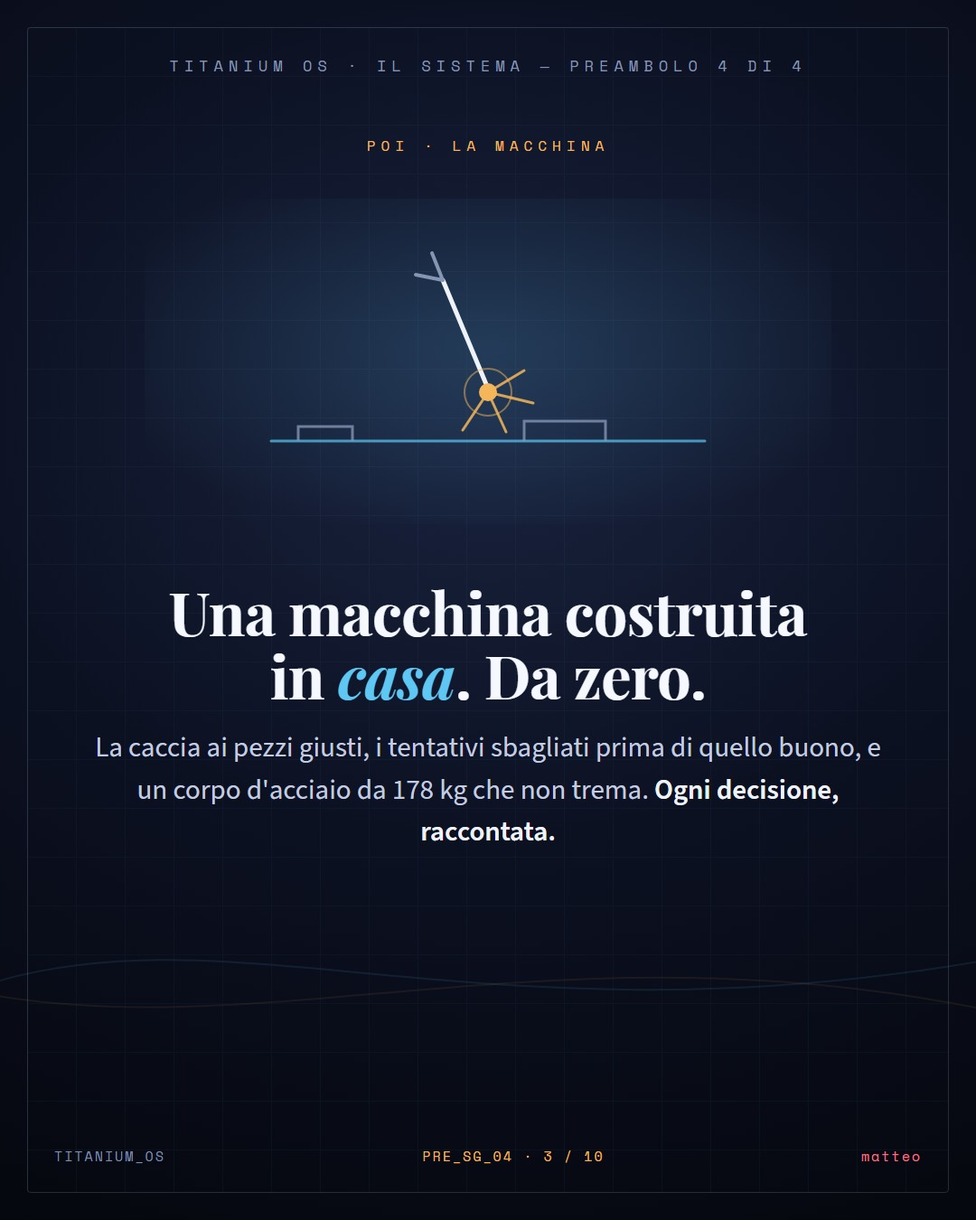
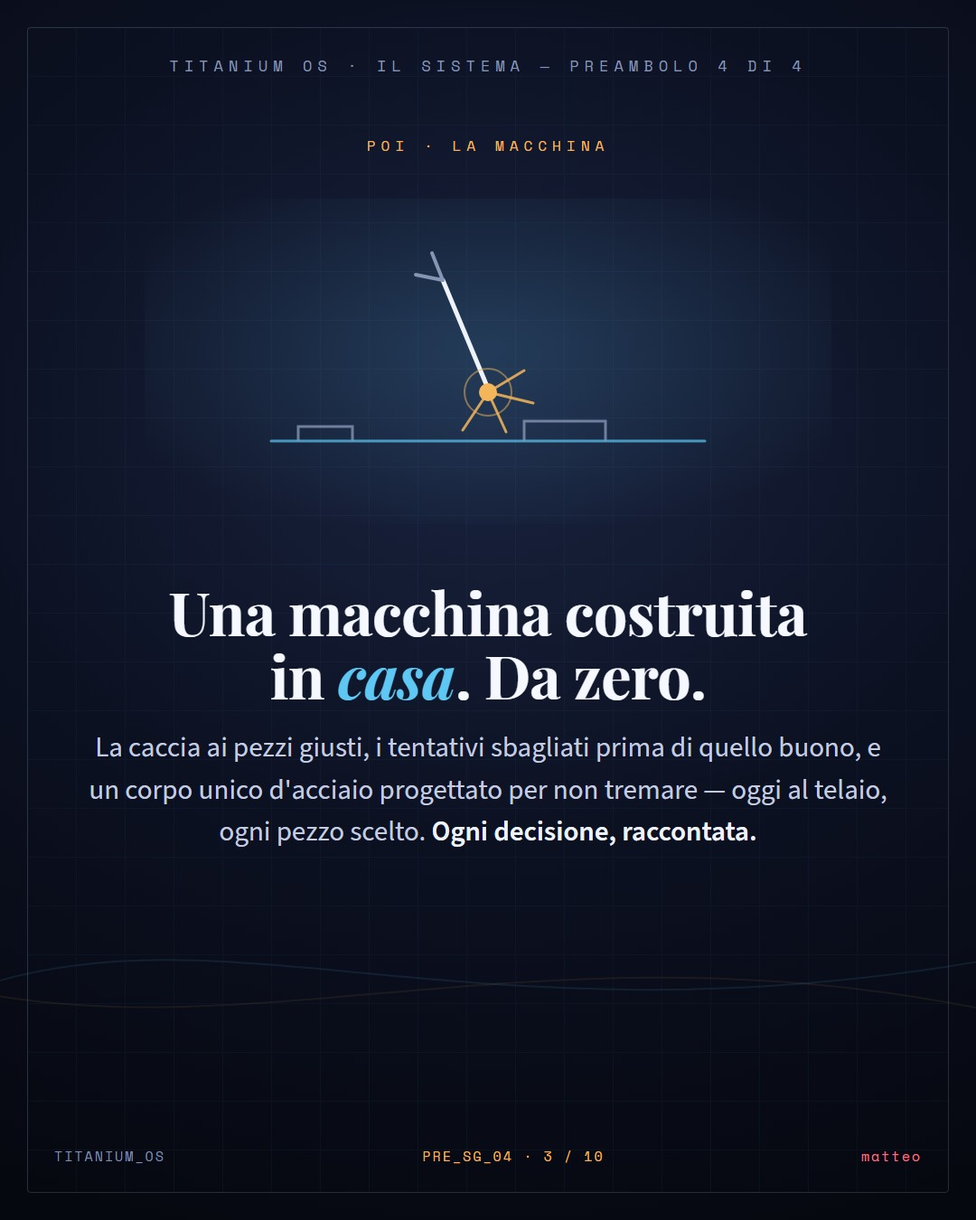
fix(#59): numeri di progetto fuori dai contenuti pubblici + EP_SG_01_02 promossa
Ordine Matteo: la V32 e' al telaio - 178 kg / +-0,019 sono progetto, non
misure. De-178kg in EP_SG_01_01 s8, EP_SG_01_02 s2/3/6+caption, PRE_SG_02
(slide+caption), PRE_SG_04. DATI MASTER precisati in CLAUDE.md. Anticorpo:
canon_guard v1.2 scan_public agganciato a night_caroselli. EP_SG_01_02
(primo run schedulato @04:16, QC verde) corretta e promossa: piano S1 2/69.
Re-render 4 caroselli, QC 0 falle, griglia 11 copertine.

Changed region(s): [[0.0917, 0.6222, 0.8861, 0.7156]]

diff --git a/CONTENT_ENGINE/DATABASE/MONDO/POSTER/CAROSELLI/EP_SG_01_02/carosello.html b/CONTENT_ENGINE/DATABASE/MONDO/POSTER/CAROSELLI/EP_SG_01_02/carosello.html
@@ -1,0 +1,167 @@
+<!DOCTYPE html>
+<html lang="it">
+<head>
+<meta charset="UTF-8" />
+<title>Il Sistema · EP_SG_01_02 — La Taverna — il laboratorio peggiore del mondo</title>
+<meta name="hz:slide-selector" content=".slide" />
+<meta name="hz:canvas-width" content="1080" />
+<meta name="hz:canvas-height" content="1350" />
+<link rel="stylesheet" href="https://use.typekit.net/zhv2kry.css">
+<style>
+* { margin:0; padding:0; box-sizing:border-box; }
+html,body { background:#05070d; }
+body { display:flex; flex-direction:column; align-items:center; gap:40px; padding:40px 0; }
+.slide { position:relative; width:1080px; height:1350px; overflow:hidden;
+  background: radial-gradient(120% 75% at 50% 34%, #1a2440 0%, #0c1122 46%, #05070d 100%);
+  font-family:"source-sans-3",sans-serif; color:#eef2fb; }
+.grid { position:absolute; inset:30px; opacity:0.04; background-image: linear-gradient(#5fc7f3 1px, transparent 1px), linear-gradient(90deg,#5fc7f3 1px, transparent 1px); background-size:54px 54px; }
+.frame { position:absolute; inset:30px; border:1px solid rgba(148,163,184,0.22); border-radius:4px; }
+.flow { position:absolute; inset:0; width:1080px; height:1350px; pointer-events:none; }
+.toplabel { position:absolute; top:60px; left:0; right:0; text-align:center; font-family:"space-mono",monospace; font-size:17px; letter-spacing:6px; color:#8595b4; text-transform:uppercase; }
+.kicker { position:absolute; top:150px; left:0; right:0; text-align:center; font-family:"space-mono",monospace; font-size:16px; letter-spacing:6px; color:#f4b65a; text-transform:uppercase; }
+.scene { position:absolute; top:210px; left:0; right:0; height:380px; display:flex; align-items:center; justify-content:center; }
+.body2 { position:absolute; left:96px; right:96px; top:640px; bottom:176px; display:flex; flex-direction:column; justify-content:flex-start; gap:26px; text-align:center; }
+.lead { font-family:"playfair-display",serif; font-weight:700; font-size:66px; line-height:1.04; color:#f6f8ff; letter-spacing:-0.5px; }
+.lead .accent { color:#f4b65a; font-style:italic; } .lead .pink { color:#ec4899; font-style:italic; } .lead .cyan { color:#5fc7f3; font-style:italic; } .lead .rose { color:#fb7185; font-style:italic; }
+.intro { font-size:31px; line-height:1.5; color:#c3cce0; }
+.intro .soft { color:#eef2fb; font-weight:600; } .intro .g { color:#f4b65a; font-weight:600; } .intro .cyan { color:#5fc7f3; font-weight:600; } .intro .pink { color:#ec4899; font-weight:600; }
+.seal { font-family:"playfair-display",serif; font-style:italic; font-weight:700; font-size:31px; line-height:1.32; color:#f4b65a; margin-top:6px; }
+.cta { font-family:"space-mono",monospace; font-size:20px; line-height:1.45; letter-spacing:1px; color:#5fc7f3; border:1px solid rgba(95,199,243,0.3); border-radius:14px; padding:18px 22px; }
+.footer { position:absolute; left:60px; right:60px; bottom:60px; display:flex; align-items:center; justify-content:space-between; font-family:"space-mono",monospace; font-size:15px; letter-spacing:2px; color:#7f8db0; }
+.footer .dot { color:#f4b65a; } .footer .matteo { color:#fb7185; }
+</style>
+</head>
+<body>
+
+<!-- ===== 1 · CAP 1 · IL SOCIO ===== -->
+<div class="slide" data-canvas-width="1080" data-canvas-height="1350">
+  <div class="grid"></div><div class="frame"></div>
+  <svg class="flow" viewBox="0 0 1080 1350" fill="none"><path d="M-20 1017 C 260 927, 540 1087, 1100 987" stroke="#5fc7f3" stroke-opacity="0.10" stroke-width="2"/><path d="M-20 1133 C 300 1193, 620 1053, 1100 1153" stroke="#f4b65a" stroke-opacity="0.08" stroke-width="2"/></svg>
+  <div class="toplabel">TITANIUM OS · IL SISTEMA — STAGIONE 1</div>
+  <div class="kicker">CAP 1 · IL SOCIO</div>
+  <div class="scene"><svg width="760" height="360" viewBox="0 0 760 360" fill="none"><defs><radialGradient id="glow" cx="50%" cy="45%" r="60%"><stop offset="0%" stop-color="#5fc7f3" stop-opacity="0.16"/><stop offset="100%" stop-color="#5fc7f3" stop-opacity="0"/></radialGradient><radialGradient id="glowg" cx="50%" cy="45%" r="60%"><stop offset="0%" stop-color="#f4b65a" stop-opacity="0.16"/><stop offset="100%" stop-color="#f4b65a" stop-opacity="0"/></radialGradient></defs><rect width="760" height="360" fill="url(#glow)"/><path d="M240 300 H540" stroke="#8595b4" stroke-width="4" stroke-linecap="round"/><rect x="330" y="130" width="120" height="170" rx="8" stroke="#eef2fb" stroke-width="4" fill="#0c1122"/><rect x="346" y="150" width="88" height="150" rx="6" fill="#f4b65a" fill-opacity="0.22"/><circle cx="428" cy="222" r="6" fill="#f4b65a"/><text x="390" y="96" text-anchor="middle" font-family="space-mono" font-size="18" fill="#8595b4">12 m²</text></svg></div>
+  <div class="body2">
+    <div class="lead cover-title" style="font-size:78px"><span class='accent'>Il laboratorio<br>peggiore del mondo.</span></div>
+    
+  </div>
+  <div class="footer"><span>TITANIUM_OS</span><span class="dot">EP_SG_01_02 · 1 / 10</span><span class="matteo">matteo</span></div>
+</div>
+<!-- ===== 2 · IL POSTO ===== -->
+<div class="slide" data-canvas-width="1080" data-canvas-height="1350">
+  <div class="grid"></div><div class="frame"></div>
+  <svg class="flow" viewBox="0 0 1080 1350" fill="none"><path d="M-20 1054 C 260 964, 540 1124, 1100 1024" stroke="#5fc7f3" stroke-opacity="0.10" stroke-width="2"/><path d="M-20 1186 C 300 1246, 620 1106, 1100 1206" stroke="#f4b65a" stroke-opacity="0.08" stroke-width="2"/></svg>
+  <div class="toplabel">TITANIUM OS · IL SISTEMA — STAGIONE 1</div>
+  <div class="kicker">IL POSTO</div>
+  <div class="scene"><svg width="760" height="360" viewBox="0 0 760 360" fill="none"><defs><radialGradient id="glow" cx="50%" cy="45%" r="60%"><stop offset="0%" stop-color="#5fc7f3" stop-opacity="0.16"/><stop offset="100%" stop-color="#5fc7f3" stop-opacity="0"/></radialGradient><radialGradient id="glowg" cx="50%" cy="45%" r="60%"><stop offset="0%" stop-color="#f4b65a" stop-opacity="0.16"/><stop offset="100%" stop-color="#f4b65a" stop-opacity="0"/></radialGradient></defs><rect width="760" height="360" fill="url(#glow)"/><path d="M240 300 H540" stroke="#8595b4" stroke-width="4" stroke-linecap="round"/><rect x="330" y="130" width="120" height="170" rx="8" stroke="#eef2fb" stroke-width="4" fill="#0c1122"/><rect x="346" y="150" width="88" height="150" rx="6" fill="#f4b65a" fill-opacity="0.22"/><circle cx="428" cy="222" r="6" fill="#f4b65a"/><text x="390" y="96" text-anchor="middle" font-family="space-mono" font-size="18" fill="#8595b4">12 m²</text></svg></div>
+  <div class="body2">
+    <div class="lead">Dodici metri quadri.<br><span class='cyan'>Piastrelle da cucina.</span><br>Soffitto basso.</div>
+    <div class="intro">Questo è il laboratorio. Non una metafora, non un'estetica. <span class='soft'>Solaio domestico, pareti in pietra, una finestra.</span> È una dispensa trasformata in officina. È qui che succede tutto.</div><div class="seal">Il telaio di una macchina utensile in 12 m² di spazio.</div>
+  </div>
+  <div class="footer"><span>TITANIUM_OS</span><span class="dot">EP_SG_01_02 · 2 / 10</span><span class="matteo">matteo</span></div>
+</div>
+<!-- ===== 3 · LA STRUTTURA ===== -->
+<div class="slide" data-canvas-width="1080" data-canvas-height="1350">
+  <div class="grid"></div><div class="frame"></div>
+  <svg class="flow" viewBox="0 0 1080 1350" fill="none"><path d="M-20 1091 C 260 1001, 540 1161, 1100 1061" stroke="#5fc7f3" stroke-opacity="0.10" stroke-width="2"/><path d="M-20 1099 C 300 1159, 620 1019, 1100 1119" stroke="#f4b65a" stroke-opacity="0.08" stroke-width="2"/></svg>
+  <div class="toplabel">TITANIUM OS · IL SISTEMA — STAGIONE 1</div>
+  <div class="kicker">LA STRUTTURA</div>
+  <div class="scene"><svg width="760" height="360" viewBox="0 0 760 360" fill="none"><defs><radialGradient id="glow" cx="50%" cy="45%" r="60%"><stop offset="0%" stop-color="#5fc7f3" stop-opacity="0.16"/><stop offset="100%" stop-color="#5fc7f3" stop-opacity="0"/></radialGradient><radialGradient id="glowg" cx="50%" cy="45%" r="60%"><stop offset="0%" stop-color="#f4b65a" stop-opacity="0.16"/><stop offset="100%" stop-color="#f4b65a" stop-opacity="0"/></radialGradient></defs><rect width="760" height="360" fill="url(#glow)"/><path d="M480 100 a70 70 0 1 0 66 96 a56 56 0 1 1 -66 -96" fill="#f4b65a" fill-opacity="0.85"/><rect x="150" y="210" width="90" height="60" rx="8" stroke="#5fc7f3" stroke-width="3"/><rect x="270" y="190" width="90" height="80" rx="8" stroke="#5fc7f3" stroke-width="3"/><circle cx="195" cy="240" r="6" fill="#5fc7f3"/><circle cx="315" cy="230" r="6" fill="#5fc7f3"/><path d="M195 210 v-26 M315 190 v-26" stroke="#5fc7f3" stroke-width="2.5" stroke-opacity="0.7"/></svg></div>
+  <div class="body2">
+    <div class="lead">Al centro della stanza<br>c'è qualcosa che <span class='accent'>non c'entra niente</span><br>con l'ambiente.</div>
+    <div class="intro">Una struttura in acciaio nel mezzo delle piastrelle da cucina. <span class='soft'>La V32 in costruzione — corpo unico, oggi telaio e componenti scelti — ferma nell'angolo come un animale addormentato.</span> Di notte lo schermo è l'unica luce.</div><div class="seal">Non sembra un laboratorio. È un laboratorio.</div>
+  </div>
+  <div class="footer"><span>TITANIUM_OS</span><span class="dot">EP_SG_01_02 · 3 / 10</span><span class="matteo">matteo</span></div>
+</div>
+<!-- ===== 4 · IL VINCOLO ===== -->
+<div class="slide" data-canvas-width="1080" data-canvas-height="1350">
+  <div class="grid"></div><div class="frame"></div>
+  <svg class="flow" viewBox="0 0 1080 1350" fill="none"><path d="M-20 1008 C 260 918, 540 1078, 1100 978" stroke="#5fc7f3" stroke-opacity="0.10" stroke-width="2"/><path d="M-20 1152 C 300 1212, 620 1072, 1100 1172" stroke="#f4b65a" stroke-opacity="0.08" stroke-width="2"/></svg>
+  <div class="toplabel">TITANIUM OS · IL SISTEMA — STAGIONE 1</div>
+  <div class="kicker">IL VINCOLO</div>
+  <div class="scene"><svg width="760" height="360" viewBox="0 0 760 360" fill="none"><defs><radialGradient id="glow" cx="50%" cy="45%" r="60%"><stop offset="0%" stop-color="#5fc7f3" stop-opacity="0.16"/><stop offset="100%" stop-color="#5fc7f3" stop-opacity="0"/></radialGradient><radialGradient id="glowg" cx="50%" cy="45%" r="60%"><stop offset="0%" stop-color="#f4b65a" stop-opacity="0.16"/><stop offset="100%" stop-color="#f4b65a" stop-opacity="0"/></radialGradient></defs><rect width="760" height="360" fill="url(#glow)"/><circle cx="150" cy="120" r="6" fill="#eef2fb"/><circle cx="300" cy="220" r="6" fill="#eef2fb"/><circle cx="420" cy="110" r="6" fill="#eef2fb"/><circle cx="560" cy="240" r="6" fill="#eef2fb"/><circle cx="640" cy="130" r="8" fill="#f4b65a"/><path d="M150 120 L300 220 L420 110 L560 240 L640 130" stroke="#5fc7f3" stroke-width="2.5" stroke-opacity="0.75"/><circle cx="640" cy="130" r="22" stroke="#f4b65a" stroke-opacity="0.5" stroke-width="2"/></svg></div>
+  <div class="body2">
+    <div class="lead">Lo spazio zero<br>ti costringe a <span class='cyan'>progettare bene.</span></div>
+    <div class="intro">Quando non puoi permetterti di sbagliare il posizionamento, smetti di sbagliarlo. <span class='soft'>Ogni pezzo deve avere un posto preciso prima di entrare. Non c'è spazio per il disordine di progetto.</span></div><div class="seal">Il vincolo non ha rallentato il lavoro. Lo ha disciplinato.</div>
+  </div>
+  <div class="footer"><span>TITANIUM_OS</span><span class="dot">EP_SG_01_02 · 4 / 10</span><span class="matteo">matteo</span></div>
+</div>
+<!-- ===== 5 · LA SCELTA ===== -->
+<div class="slide" data-canvas-width="1080" data-canvas-height="1350">
+  <div class="grid"></div><div class="frame"></div>
+  <svg class="flow" viewBox="0 0 1080 1350" fill="none"><path d="M-20 1045 C 260 955, 540 1115, 1100 1015" stroke="#5fc7f3" stroke-opacity="0.10" stroke-width="2"/><path d="M-20 1205 C 300 1265, 620 1125, 1100 1225" stroke="#f4b65a" stroke-opacity="0.08" stroke-width="2"/></svg>
+  <div class="toplabel">TITANIUM OS · IL SISTEMA — STAGIONE 1</div>
+  <div class="kicker">LA SCELTA</div>
+  <div class="scene"><svg width="760" height="360" viewBox="0 0 760 360" fill="none"><defs><radialGradient id="glow" cx="50%" cy="45%" r="60%"><stop offset="0%" stop-color="#5fc7f3" stop-opacity="0.16"/><stop offset="100%" stop-color="#5fc7f3" stop-opacity="0"/></radialGradient><radialGradient id="glowg" cx="50%" cy="45%" r="60%"><stop offset="0%" stop-color="#f4b65a" stop-opacity="0.16"/><stop offset="100%" stop-color="#f4b65a" stop-opacity="0"/></radialGradient></defs><rect width="760" height="360" fill="url(#glow)"/><path d="M240 300 H540" stroke="#8595b4" stroke-width="4" stroke-linecap="round"/><rect x="330" y="130" width="120" height="170" rx="8" stroke="#eef2fb" stroke-width="4" fill="#0c1122"/><rect x="346" y="150" width="88" height="150" rx="6" fill="#f4b65a" fill-opacity="0.22"/><circle cx="428" cy="222" r="6" fill="#f4b65a"/><text x="390" y="96" text-anchor="middle" font-family="space-mono" font-size="18" fill="#8595b4">12 m²</text></svg></div>
+  <div class="body2">
+    <div class="lead">Non era <span class='accent'>il laboratorio<br>che avrei scelto.</span></div>
+    <div class="intro">Era il laboratorio che avevo. <span class='soft'>Nove piastre d'acciaio, un PLC industriale Siemens S7-314C, dodici metri quadri con le piastrelle da cucina sul pavimento.</span> La risposta era già lì, nella dispensa.</div><div class="seal">Partire da quello che c'è. Non da quello che si vorrebbe.</div>
+  </div>
+  <div class="footer"><span>TITANIUM_OS</span><span class="dot">EP_SG_01_02 · 5 / 10</span><span class="matteo">matteo</span></div>
+</div>
+<!-- ===== 6 · IL CORPO ===== -->
+<div class="slide" data-canvas-width="1080" data-canvas-height="1350">
+  <div class="grid"></div><div class="frame"></div>
+  <svg class="flow" viewBox="0 0 1080 1350" fill="none"><path d="M-20 1082 C 260 992, 540 1152, 1100 1052" stroke="#5fc7f3" stroke-opacity="0.10" stroke-width="2"/><path d="M-20 1118 C 300 1178, 620 1038, 1100 1138" stroke="#f4b65a" stroke-opacity="0.08" stroke-width="2"/></svg>
+  <div class="toplabel">TITANIUM OS · IL SISTEMA — STAGIONE 1</div>
+  <div class="kicker">IL CORPO</div>
+  <div class="scene"><svg width="760" height="360" viewBox="0 0 760 360" fill="none"><defs><radialGradient id="glow" cx="50%" cy="45%" r="60%"><stop offset="0%" stop-color="#5fc7f3" stop-opacity="0.16"/><stop offset="100%" stop-color="#5fc7f3" stop-opacity="0"/></radialGradient><radialGradient id="glowg" cx="50%" cy="45%" r="60%"><stop offset="0%" stop-color="#f4b65a" stop-opacity="0.16"/><stop offset="100%" stop-color="#f4b65a" stop-opacity="0"/></radialGradient></defs><rect width="760" height="360" fill="url(#glow)"/><circle cx="330" cy="180" r="86" stroke="#eef2fb" stroke-width="4"/><path d="M330 130 v100 M290 180 h80" stroke="#8595b4" stroke-width="3" stroke-opacity="0.7"/><path d="M450 96 v190 M520 96 v190 M450 130 h70 M450 200 h70 M450 260 h70" stroke="#5fc7f3" stroke-width="4" stroke-linecap="round"/><path d="M416 180 h34" stroke="#f4b65a" stroke-width="4" stroke-linecap="round"/></svg></div>
+  <div class="body2">
+    <div class="lead">Corpo unico.<br><span class='cyan'>Oggi: telaio.</span><br>Nessun sistema a molle.</div>
+    <div class="intro">La decisione di costruire la V32 come corpo unico rigido non è nata in astratto. <span class='soft'>È nata dal fatto che in 12 m² non puoi gestire variabili di setup infinite. Meno variabili, meno cose che possono andare storte.</span></div><div class="seal">Rigidità superiore. Adatta alla lavorazione titanio ad alta precisione.</div>
+  </div>
+  <div class="footer"><span>TITANIUM_OS</span><span class="dot">EP_SG_01_02 · 6 / 10</span><span class="matteo">matteo</span></div>
+</div>
+<!-- ===== 7 · LA NOTTE ===== -->
+<div class="slide" data-canvas-width="1080" data-canvas-height="1350">
+  <div class="grid"></div><div class="frame"></div>
+  <svg class="flow" viewBox="0 0 1080 1350" fill="none"><path d="M-20 999 C 260 909, 540 1069, 1100 969" stroke="#5fc7f3" stroke-opacity="0.10" stroke-width="2"/><path d="M-20 1171 C 300 1231, 620 1091, 1100 1191" stroke="#f4b65a" stroke-opacity="0.08" stroke-width="2"/></svg>
+  <div class="toplabel">TITANIUM OS · IL SISTEMA — STAGIONE 1</div>
+  <div class="kicker">LA NOTTE</div>
+  <div class="scene"><svg width="760" height="360" viewBox="0 0 760 360" fill="none"><defs><radialGradient id="glow" cx="50%" cy="45%" r="60%"><stop offset="0%" stop-color="#5fc7f3" stop-opacity="0.16"/><stop offset="100%" stop-color="#5fc7f3" stop-opacity="0"/></radialGradient><radialGradient id="glowg" cx="50%" cy="45%" r="60%"><stop offset="0%" stop-color="#f4b65a" stop-opacity="0.16"/><stop offset="100%" stop-color="#f4b65a" stop-opacity="0"/></radialGradient></defs><rect width="760" height="360" fill="url(#glow)"/><path d="M480 100 a70 70 0 1 0 66 96 a56 56 0 1 1 -66 -96" fill="#f4b65a" fill-opacity="0.85"/><rect x="150" y="210" width="90" height="60" rx="8" stroke="#5fc7f3" stroke-width="3"/><rect x="270" y="190" width="90" height="80" rx="8" stroke="#5fc7f3" stroke-width="3"/><circle cx="195" cy="240" r="6" fill="#5fc7f3"/><circle cx="315" cy="230" r="6" fill="#5fc7f3"/><path d="M195 210 v-26 M315 190 v-26" stroke="#5fc7f3" stroke-width="2.5" stroke-opacity="0.7"/></svg></div>
+  <div class="body2">
+    <div class="lead">Le 22:47.<br><span class='accent'>Tre terminali aperti.</span><br>La taverna non dorme.</div>
+    <div class="intro">Tra i morsetti e le punte da centro, un laptop. <span class='soft'>Il lavoro notturno non è romantico — è il momento in cui c'è silenzio abbastanza per pensare.</span> Con ADHD, il silenzio è un materiale da costruzione.</div>
+  </div>
+  <div class="footer"><span>TITANIUM_OS</span><span class="dot">EP_SG_01_02 · 7 / 10</span><span class="matteo">matteo</span></div>
+</div>
+<!-- ===== 8 · IL SISTEMA ===== -->
+<div class="slide" data-canvas-width="1080" data-canvas-height="1350">
+  <div class="grid"></div><div class="frame"></div>
+  <svg class="flow" viewBox="0 0 1080 1350" fill="none"><path d="M-20 1036 C 260 946, 540 1106, 1100 1006" stroke="#5fc7f3" stroke-opacity="0.10" stroke-width="2"/><path d="M-20 1084 C 300 1144, 620 1004, 1100 1104" stroke="#f4b65a" stroke-opacity="0.08" stroke-width="2"/></svg>
+  <div class="toplabel">TITANIUM OS · IL SISTEMA — STAGIONE 1</div>
+  <div class="kicker">IL SISTEMA</div>
+  <div class="scene"><svg width="760" height="360" viewBox="0 0 760 360" fill="none"><defs><radialGradient id="glow" cx="50%" cy="45%" r="60%"><stop offset="0%" stop-color="#5fc7f3" stop-opacity="0.16"/><stop offset="100%" stop-color="#5fc7f3" stop-opacity="0"/></radialGradient><radialGradient id="glowg" cx="50%" cy="45%" r="60%"><stop offset="0%" stop-color="#f4b65a" stop-opacity="0.16"/><stop offset="100%" stop-color="#f4b65a" stop-opacity="0"/></radialGradient></defs><rect width="760" height="360" fill="url(#glow)"/><circle cx="250" cy="180" r="62" stroke="#f4b65a" stroke-width="4"/><path d="M250 148 v64 M218 180 h64" stroke="#f4b65a" stroke-width="3" stroke-opacity="0.7"/><rect x="452" y="118" width="124" height="124" rx="14" stroke="#5fc7f3" stroke-width="4"/><circle cx="514" cy="180" r="10" fill="#5fc7f3"/><path d="M312 180 H452" stroke="#eef2fb" stroke-width="4" stroke-linecap="round"/><circle cx="382" cy="180" r="7" fill="#eef2fb"/></svg></div>
+  <div class="body2">
+    <div class="lead">CNC al 65%.<br>Sistema cognitivo al 70%.<br><span class='cyan'>Una notte che conta.</span></div>
+    <div class="intro">Non perché sia spettacolare. <span class='soft'>Perché è verificabile. Bozze reali, decisioni reali, materiale che avanza.</span> La taverna da 12 m² non è un ostacolo alla produzione — è il perimetro dentro cui la produzione esiste.</div><div class="seal">Operativo. Lavora. Consegna.</div>
+  </div>
+  <div class="footer"><span>TITANIUM_OS</span><span class="dot">EP_SG_01_02 · 8 / 10</span><span class="matteo">matteo</span></div>
+</div>
+<!-- ===== 9 · IL PERSONAGGIO ===== -->
+<div class="slide" data-canvas-width="1080" data-canvas-height="1350">
+  <div class="grid"></div><div class="frame"></div>
+  <svg class="flow" viewBox="0 0 1080 1350" fill="none"><path d="M-20 1073 C 260 983, 540 1143, 1100 1043" stroke="#5fc7f3" stroke-opacity="0.10" stroke-width="2"/><path d="M-20 1137 C 300 1197, 620 1057, 1100 1157" stroke="#f4b65a" stroke-opacity="0.08" stroke-width="2"/></svg>
+  <div class="toplabel">TITANIUM OS · IL SISTEMA — STAGIONE 1</div>
+  <div class="kicker">IL PERSONAGGIO</div>
+  <div class="scene"><svg width="760" height="360" viewBox="0 0 760 360" fill="none"><defs><radialGradient id="glow" cx="50%" cy="45%" r="60%"><stop offset="0%" stop-color="#5fc7f3" stop-opacity="0.16"/><stop offset="100%" stop-color="#5fc7f3" stop-opacity="0"/></radialGradient><radialGradient id="glowg" cx="50%" cy="45%" r="60%"><stop offset="0%" stop-color="#f4b65a" stop-opacity="0.16"/><stop offset="100%" stop-color="#f4b65a" stop-opacity="0"/></radialGradient></defs><rect width="760" height="360" fill="url(#glow)"/><rect x="150" y="140" width="52" height="170" rx="6" stroke="#f4b65a" stroke-width="4"/><rect x="250" y="154" width="52" height="156" rx="6" stroke="#5fc7f3" stroke-width="4"/><rect x="350" y="140" width="52" height="170" rx="6" stroke="#eef2fb" stroke-width="4"/><rect x="450" y="154" width="52" height="156" rx="6" stroke="#5fc7f3" stroke-width="4"/><rect x="550" y="140" width="52" height="170" rx="6" stroke="#ec4899" stroke-width="4"/><path d="M130 328 H660" stroke="#8595b4" stroke-width="3" stroke-opacity="0.7"/></svg></div>
+  <div class="body2">
+    <div class="lead">La taverna<br>non è lo sfondo.<br><span class='accent'>È parte del progetto.</span></div>
+    <div class="intro">Ogni macchina professionale costruita da chi la usa porta i segni del posto in cui è nata. <span class='soft'>La V32 occupa uno spazio che non esisteva prima: progettata dentro un vincolo reale, per lavorare materiali reali.</span> Il laboratorio peggiore del mondo ha fatto il suo lavoro.</div><div class="seal">Il vincolo non mente mai su cosa è necessario.</div>
+  </div>
+  <div class="footer"><span>TITANIUM_OS</span><span class="dot">EP_SG_01_02 · 9 / 10</span><span class="matteo">matteo</span></div>
+</div>
+<!-- ===== 10 · PROSSIMO ===== -->
+<div class="slide" data-canvas-width="1080" data-canvas-height="1350">
+  <div class="grid"></div><div class="frame"></div>
+  <svg class="flow" viewBox="0 0 1080 1350" fill="none"><path d="M-20 990 C 260 900, 540 1060, 1100 960" stroke="#5fc7f3" stroke-opacity="0.10" stroke-width="2"/><path d="M-20 1190 C 300 1250, 620 1110, 1100 1210" stroke="#f4b65a" stroke-opacity="0.08" stroke-width="2"/></svg>
+  <div class="toplabel">TITANIUM OS · IL SISTEMA — STAGIONE 1</div>
+  <div class="kicker">PROSSIMO</div>
+  <div class="scene"><svg width="760" height="360" viewBox="0 0 760 360" fill="none"><defs><radialGradient id="glow" cx="50%" cy="45%" r="60%"><stop offset="0%" stop-color="#5fc7f3" stop-opacity="0.16"/><stop offset="100%" stop-color="#5fc7f3" stop-opacity="0"/></radialGradient><radialGradient id="glowg" cx="50%" cy="45%" r="60%"><stop offset="0%" stop-color="#f4b65a" stop-opacity="0.16"/><stop offset="100%" stop-color="#f4b65a" stop-opacity="0"/></radialGradient></defs><rect width="760" height="360" fill="url(#glow)"/><rect x="340" y="140" width="100" height="150" rx="8" stroke="#ec4899" stroke-width="4" fill="#0c1122"/><circle cx="420" cy="218" r="5" fill="#ec4899"/><text x="390" y="106" text-anchor="middle" font-family="playfair-display" font-size="44" fill="#ec4899" font-style="italic">?</text></svg></div>
+  <div class="body2">
+    <div class="lead">Ma chi ha fatto<br>le scelte di progetto<br><span class='cyan'>quando ero stanco?</span></div>
+    <div class="intro">Costruire una CNC da soli in 12 m² con ADHD è una cosa. <span class='soft'>Costruirla con un socio che non dorme, non si stufa e non perde il filo — è un'altra.</span> Il prossimo episodio: com'è fatto il socio.</div><div class="cta">Segui TITANIUM_OS per il prossimo episodio → CAP 1 · Il Socio: l'AI che non dorme.</div>
+  </div>
+  <div class="footer"><span>TITANIUM_OS</span><span class="dot">EP_SG_01_02 · 10 / 10</span><span class="matteo">matteo</span></div>
+</div>
+</body>
+</html>

diff --git a/CONTENT_ENGINE/DATABASE/MONDO/POSTER/CAROSELLI/PRE_SG_04/carosello.html b/CONTENT_ENGINE/DATABASE/MONDO/POSTER/CAROSELLI/PRE_SG_04/carosello.html
@@ -68,7 +68,7 @@ body { display:flex; flex-direction:column; align-items:center; gap:40px; paddin
   <div class="scene"><svg width="760" height="360" viewBox="0 0 760 360" fill="none"><defs><radialGradient id="glow" cx="50%" cy="45%" r="60%"><stop offset="0%" stop-color="#5fc7f3" stop-opacity="0.16"/><stop offset="100%" stop-color="#5fc7f3" stop-opacity="0"/></radialGradient><radialGradient id="glowg" cx="50%" cy="45%" r="60%"><stop offset="0%" stop-color="#f4b65a" stop-opacity="0.16"/><stop offset="100%" stop-color="#f4b65a" stop-opacity="0"/></radialGradient></defs><rect width="760" height="360" fill="url(#glow)"/><path d="M330 90 L380 210" stroke="#eef2fb" stroke-width="5" stroke-linecap="round"/><path d="M330 90 L318 60 M330 90 L300 84" stroke="#8595b4" stroke-width="4" stroke-linecap="round"/><circle cx="380" cy="214" r="10" fill="#f4b65a"/><circle cx="380" cy="214" r="26" stroke="#f4b65a" stroke-opacity="0.5" stroke-width="2"/><path d="M380 214 L420 190 M380 214 L430 226 M380 214 L400 258 M380 214 L352 256" stroke="#f4b65a" stroke-width="3" stroke-linecap="round" stroke-opacity="0.85"/><path d="M140 268 H620" stroke="#5fc7f3" stroke-width="3" stroke-linecap="round" stroke-opacity="0.7"/><path d="M170 268 v-16 h60 v16 M420 268 v-22 h90 v22" stroke="#8595b4" stroke-width="3" stroke-opacity="0.8"/></svg></div>
   <div class="body2">
     <div class="lead">Una macchina costruita<br>in <span class="cyan">casa</span>. Da zero.</div>
-    <div class="intro">La caccia ai pezzi giusti, i tentativi sbagliati prima di quello buono, e un corpo d'acciaio da 178 kg che non trema. <span class="soft">Ogni decisione, raccontata.</span></div>
+    <div class="intro">La caccia ai pezzi giusti, i tentativi sbagliati prima di quello buono, e un corpo unico d'acciaio progettato per non tremare — oggi al telaio, ogni pezzo scelto. <span class="soft">Ogni decisione, raccontata.</span></div>
   </div>
   <div class="footer"><span>TITANIUM_OS</span><span class="dot">PRE_SG_04 · 3 / 10</span><span class="matteo">matteo</span></div>
 </div>

diff --git a/CONTENT_ENGINE/DATABASE/MONDO/POSTER/CAROSELLI/EP_SG_01_01/carosello.html b/CONTENT_ENGINE/DATABASE/MONDO/POSTER/CAROSELLI/EP_SG_01_01/carosello.html
@@ -133,7 +133,7 @@ body { display:flex; flex-direction:column; align-items:center; gap:40px; paddin
   <div class="scene"><svg width="760" height="360" viewBox="0 0 760 360" fill="none"><defs><radialGradient id="glow" cx="50%" cy="45%" r="60%"><stop offset="0%" stop-color="#5fc7f3" stop-opacity="0.16"/><stop offset="100%" stop-color="#5fc7f3" stop-opacity="0"/></radialGradient><radialGradient id="glowg" cx="50%" cy="45%" r="60%"><stop offset="0%" stop-color="#f4b65a" stop-opacity="0.16"/><stop offset="100%" stop-color="#f4b65a" stop-opacity="0"/></radialGradient></defs><rect width="760" height="360" fill="url(#glow)"/><circle cx="330" cy="180" r="86" stroke="#eef2fb" stroke-width="4"/><path d="M330 130 v100 M290 180 h80" stroke="#8595b4" stroke-width="3" stroke-opacity="0.7"/><path d="M450 96 v190 M520 96 v190 M450 130 h70 M450 200 h70 M450 260 h70" stroke="#5fc7f3" stroke-width="4" stroke-linecap="round"/><path d="M416 180 h34" stroke="#f4b65a" stroke-width="4" stroke-linecap="round"/></svg></div>
   <div class="body2">
     <div class="lead">Un ecosistema.<br>Ogni parte è socio<br><span class="accent">dell'altra.</span></div>
-    <div class="intro">Da quella sera è cresciuto qualcosa. Non subito — nel tempo. <span class="soft">Agenti, memoria, connettori. Una fresatrice CNC da 178 kg che aspetta nell'angolo.</span> Ma il principio era già lì quella notte: nessuna parte lavora da sola.</div><div class="seal">TITANIUM_OS è iniziato così.</div>
+    <div class="intro">Da quella sera è cresciuto qualcosa. Non subito — nel tempo. <span class="soft">Agenti, memoria, connettori. Nell'angolo, il telaio di una fresatrice CNC che cresce — componentistica scelta bene, strada ancora davanti.</span> Ma il principio era già lì quella notte: nessuna parte lavora da sola.</div><div class="seal">TITANIUM_OS è iniziato così.</div>
   </div>
   <div class="footer"><span>TITANIUM_OS</span><span class="dot">EP_SG_01_01 · 8 / 10</span><span class="matteo">matteo</span></div>
 </div>

diff --git a/CONTENT_ENGINE/DATABASE/MONDO/POSTER/CAROSELLI/PRE_SG_02/carosello.html b/CONTENT_ENGINE/DATABASE/MONDO/POSTER/CAROSELLI/PRE_SG_02/carosello.html
@@ -68,7 +68,7 @@ body { display:flex; flex-direction:column; align-items:center; gap:40px; paddin
   <div class="scene"><svg width="760" height="360" viewBox="0 0 760 360" fill="none"><defs><radialGradient id="glow" cx="50%" cy="45%" r="60%"><stop offset="0%" stop-color="#5fc7f3" stop-opacity="0.16"/><stop offset="100%" stop-color="#5fc7f3" stop-opacity="0"/></radialGradient><radialGradient id="glowg" cx="50%" cy="45%" r="60%"><stop offset="0%" stop-color="#f4b65a" stop-opacity="0.16"/><stop offset="100%" stop-color="#f4b65a" stop-opacity="0"/></radialGradient></defs><rect width="760" height="360" fill="url(#glow)"/><path d="M330 90 L380 210" stroke="#eef2fb" stroke-width="5" stroke-linecap="round"/><path d="M330 90 L318 60 M330 90 L300 84" stroke="#8595b4" stroke-width="4" stroke-linecap="round"/><circle cx="380" cy="214" r="10" fill="#f4b65a"/><circle cx="380" cy="214" r="26" stroke="#f4b65a" stroke-opacity="0.5" stroke-width="2"/><path d="M380 214 L420 190 M380 214 L430 226 M380 214 L400 258 M380 214 L352 256" stroke="#f4b65a" stroke-width="3" stroke-linecap="round" stroke-opacity="0.85"/><path d="M140 268 H620" stroke="#5fc7f3" stroke-width="3" stroke-linecap="round" stroke-opacity="0.7"/><path d="M170 268 v-16 h60 v16 M420 268 v-22 h90 v22" stroke="#8595b4" stroke-width="3" stroke-opacity="0.8"/></svg></div>
   <div class="body2">
     <div class="lead">Una fresatrice<br>costruita <span class="accent">da zero</span>.</div>
-    <div class="intro">178 kg di corpo unico, precisione ±0,019 mm. Non l'ho comprata: <span class="soft">l'ho progettata e costruita</span>, pezzo per pezzo, in taverna.</div>
+    <div class="intro">Corpo unico d'acciaio, progettata per il titanio. Non l'ho comprata: <span class="soft">la sto progettando e costruendo</span>, pezzo per pezzo, in taverna — oggi il telaio è in piedi.</div>
   </div>
   <div class="footer"><span>TITANIUM_OS</span><span class="dot">PRE_SG_02 · 3 / 10</span><span class="matteo">matteo</span></div>
 </div>

diff --git a/AUTOMATIONS/core/canon_guard.py b/AUTOMATIONS/core/canon_guard.py
@@ -1,4 +1,4 @@
-# canon_guard.py | TITANIUM_OS / AUTOMATIONS / core | v1.1 | 2026-07-15
+# canon_guard.py | TITANIUM_OS / AUTOMATIONS / core | v1.2 | 2026-07-15
 # REGOLA DI CANONE, implementata UNA volta e usata ovunque (scalabile/adattiva).
 # Regola Matteo: i componenti V32/VULCAN NON si descrivono mai come
 # "recuperati / usati / di recupero / EUR 0 di recupero". Sempre specifica
@@ -9,6 +9,12 @@
 # come parente in voce reale = falla (successo in EP_SG_01_01, bozza 14/07:
 # l'apprendista ha scritto una parentela inventata e il QC era cieco).
 # In SG Nina appare SOLO come cameo-domanda nel balloon (PONTE_SG_NINA).
+#
+# v1.2 — scan_public(): numeri di PROGETTO non ancora misurati (massa 178 kg,
+# precisione RSS ±0,019) vietati nei CONTENUTI PUBBLICI come fatti compiuti
+# (ordine Matteo 15/07: "siamo ancora al telaio, eviterei il peso"). Solo per
+# contenuti in uscita (night_caroselli) — NON per i doc interni di MENTE, dove
+# quei numeri sono legittimi come dati di progetto.
 #
 # - clean(text)  -> applica le correzioni note (auto-fix alla fonte, idempotente)
 # - scan(text)   -> trova formulazioni vietate ANCHE nuove (proximità hardware),
@@ -95,6 +101,17 @@ def scan(text: str) -> list[str]:
     hits = [m.strip() for m in _LINE_RE.findall(cleaned) if m.strip()]
     hits += [f"[persone] {m.strip()}" for m in _NINA_RE.findall(cleaned) if m.strip()]
     return hits
+
+
+# Numeri di progetto della V32 non ancora misurati sulla macchina reale (al telaio).
+# Si estende qui quando un numero diventa misurato (si toglie) o ne nasce uno nuovo.
+_PROGETTO_RE = re.compile(r"^.*(?:178\s*kg|±\s*0[.,]019).*$", re.IGNORECASE | re.MULTILINE)
+
+
+def scan_public(text: str) -> list[str]:
+    """SOLO contenuti in uscita: righe con numeri di progetto spacciati per fatti."""
+    return [f"[progetto-non-misurato] {m.strip()}"
+            for m in _PROGETTO_RE.findall(text) if m.strip()]
 
 
 if __name__ == "__main__":

diff --git a/NODES/CAROSELLI_AGENT/night_caroselli.py b/NODES/CAROSELLI_AGENT/night_caroselli.py
@@ -169,7 +169,8 @@ def run() -> int:
         for k in ("lead", "intro", "seal", "cta", "kicker"):
             if s.get(k):
                 s[k] = canon_guard.clean(s[k])
-        hits = canon_guard.scan(" ".join(str(s.get(k, "")) for k in ("lead", "intro", "seal")))
+        testo = " ".join(str(s.get(k, "")) for k in ("lead", "intro", "seal"))
+        hits = canon_guard.scan(testo) + canon_guard.scan_public(testo)
         if hits:
             issues.append(f"canon_guard: {hits[0][:90]}")
 

diff --git a/DA_FARE_FATTO.md b/DA_FARE_FATTO.md
@@ -126,6 +126,21 @@
   15/07 ~01:00**: TI_NightCaroselli non ha ancora avuto il primo run schedulato
   (NextRunTime = 15/07 04:15, LastRunTime vuoto); EP_SG_01_01 era il run manuale di
   prova del 14/07 10:32. 01_02 arriva stanotte @04:15, tutto regolare
+- [✓] **EP_SG_01_02 «La Taverna» ARRIVATA E PROMOSSA** (15/07): primo run SCHEDULATO
+  dell'apprendista @04:16 — QC verde alla nascita. Revisione Matteo: «buona, ma
+  eviterei il peso — siamo ancora al telaio» → **de-178kg** (slide 2/3/6 + caption:
+  stato reale = telaio in piedi + componentistica scelta). Piano CAP1 2/4, S1 2/69.
+- [✓] **BONIFICA NUMERI DI PROGETTO OVUNQUE** (ordine Matteo 15/07): 178 kg e ±0,019
+  sono PROGETTO non misure (macchina al telaio) → tolti anche da EP_SG_01_01 slide 8,
+  PRE_SG_02 (slide+caption), PRE_SG_04. Canone precisato alla fonte (CLAUDE.md DATI
+  MASTER + GUIDA §7.7). Anticorpo: **canon_guard v1.2 `scan_public`** agganciato a
+  night_caroselli — l'apprendista non può più spacciare numeri di progetto per fatti.
+  Re-render 4 caroselli + QC 0 falle + griglia (11 copertine).
+- [✓] **CATTURA VOCE MATTEO «i pari, non i curiosi»** (`MENTE/SESSIONI/2026-07-15_
+  matteo_pari_non_curiosi.md`, RAG ok): professionalità scambiata per cene con gli
+  amici non ha portato da nessuna parte → il binario parla ai COLLEGHI ad alta
+  competenza; la chiusura può invitare al dialogo tecnico (chiedere/trovare supporti,
+  non vendere). Seme futuro: vicino a EP_SG_09_02 «Il CV che nessuno capisce».
 - [ ] **PRE_01 NINA INSIEME** — rifatto da 0, ≤10, copertina §2-bis (punto condiviso rotta)
 - [ ] Dopo rodaggio 3 notti: estendere `DATA/caroselli_queue.json` dai piani (S1 sistema)
 

diff --git a/CLAUDE.md b/CLAUDE.md
@@ -102,8 +102,11 @@ FINANCE\            ← fatture, BEP, ROI, fornitori
 
 ## DATI MASTER (verificati fisicamente — non inventare)
 - Investimento V32: EUR 2.250
-- Massa V32: 178 kg — **corpo unico** (non più su molle — decisione strutturale maggio 2026)
-- Precisione RSS: ±0.019 mm (IT6-IT7)
+- Massa V32: 178 kg **di progetto** — **corpo unico** (non più su molle — decisione strutturale maggio 2026).
+  ⚠ NON ancora pesata: la macchina è al telaio (Matteo, 15/07/2026). Nei CONTENUTI PUBBLICI
+  non si dichiara il peso come fatto — si dice lo stato reale (telaio + componentistica scelta).
+- Precisione RSS: ±0.019 mm (IT6-IT7) — **calcolo di progetto**, non misura: stessa regola
+  pubblica del peso (canon_guard.scan_public li blocca entrambi nei caroselli)
 - BEP V32: 61 ore = 1.4 mesi | ROI Anno 1: 322%
 - Tariffa Precision Lab: EUR 45/h
 - Target capannone: 15 Luglio 2030

diff --git a/CONTENT_ENGINE/DATABASE/MONDO/POSTER/CAROSELLI/EP_SG_01_02/README.md b/CONTENT_ENGINE/DATABASE/MONDO/POSTER/CAROSELLI/EP_SG_01_02/README.md
@@ -1,0 +1,12 @@
+# EP_SG_01_02 — La Taverna — il laboratorio peggiore del mondo
+
+*Generato dall'apprendista notturno 15/07/2026 04:16 (primo run SCHEDULATO del task
+@04:15 — QC verde alla nascita, con canon_guard v1.1 [persone] attivo). PROMOSSO
+15/07/2026 dopo revisione Matteo+Claude: rimossi i numeri di progetto non misurati
+(178 kg in slide 2/3/6 e caption — ordine Matteo: "siamo ancora al telaio") →
+sostituiti con lo stato reale (telaio in piedi + componentistica scelta). La
+correzione ha prodotto canon_guard v1.2 scan_public: non può ripetersi.*
+
+- 10 slide (≤10, un taglio) · voce: matteo · CAP 1 · IL SOCIO
+- Render: `slides/` (PNG) + `slides_ig/` (JPEG feed) · QC: caroselli_qc
+- Pubblicazione: dopo il test LinkedIn PRE_SG_01 (ordine della rotta #59)
